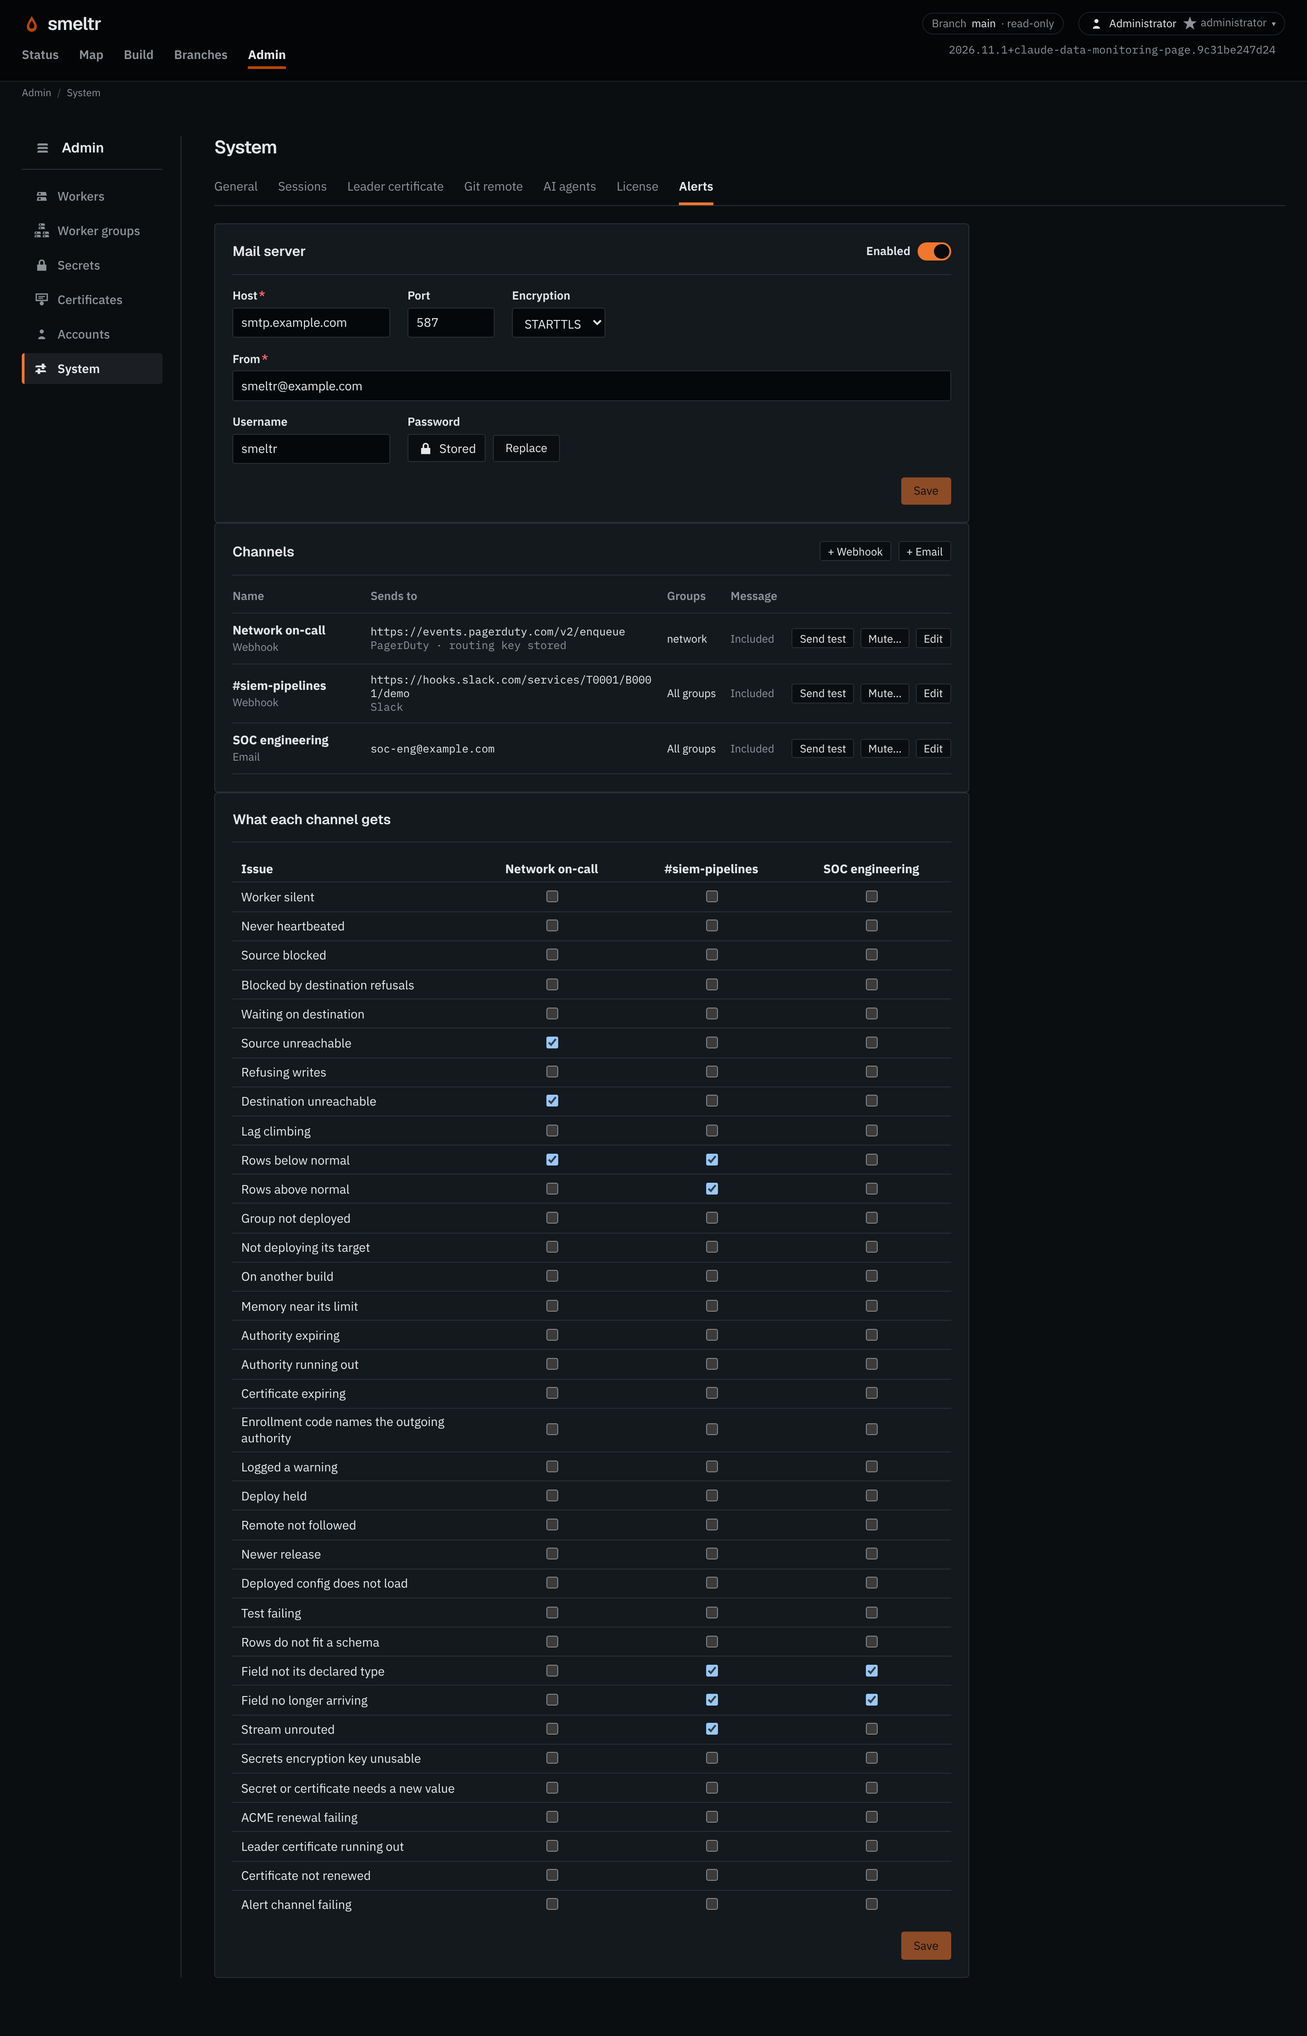
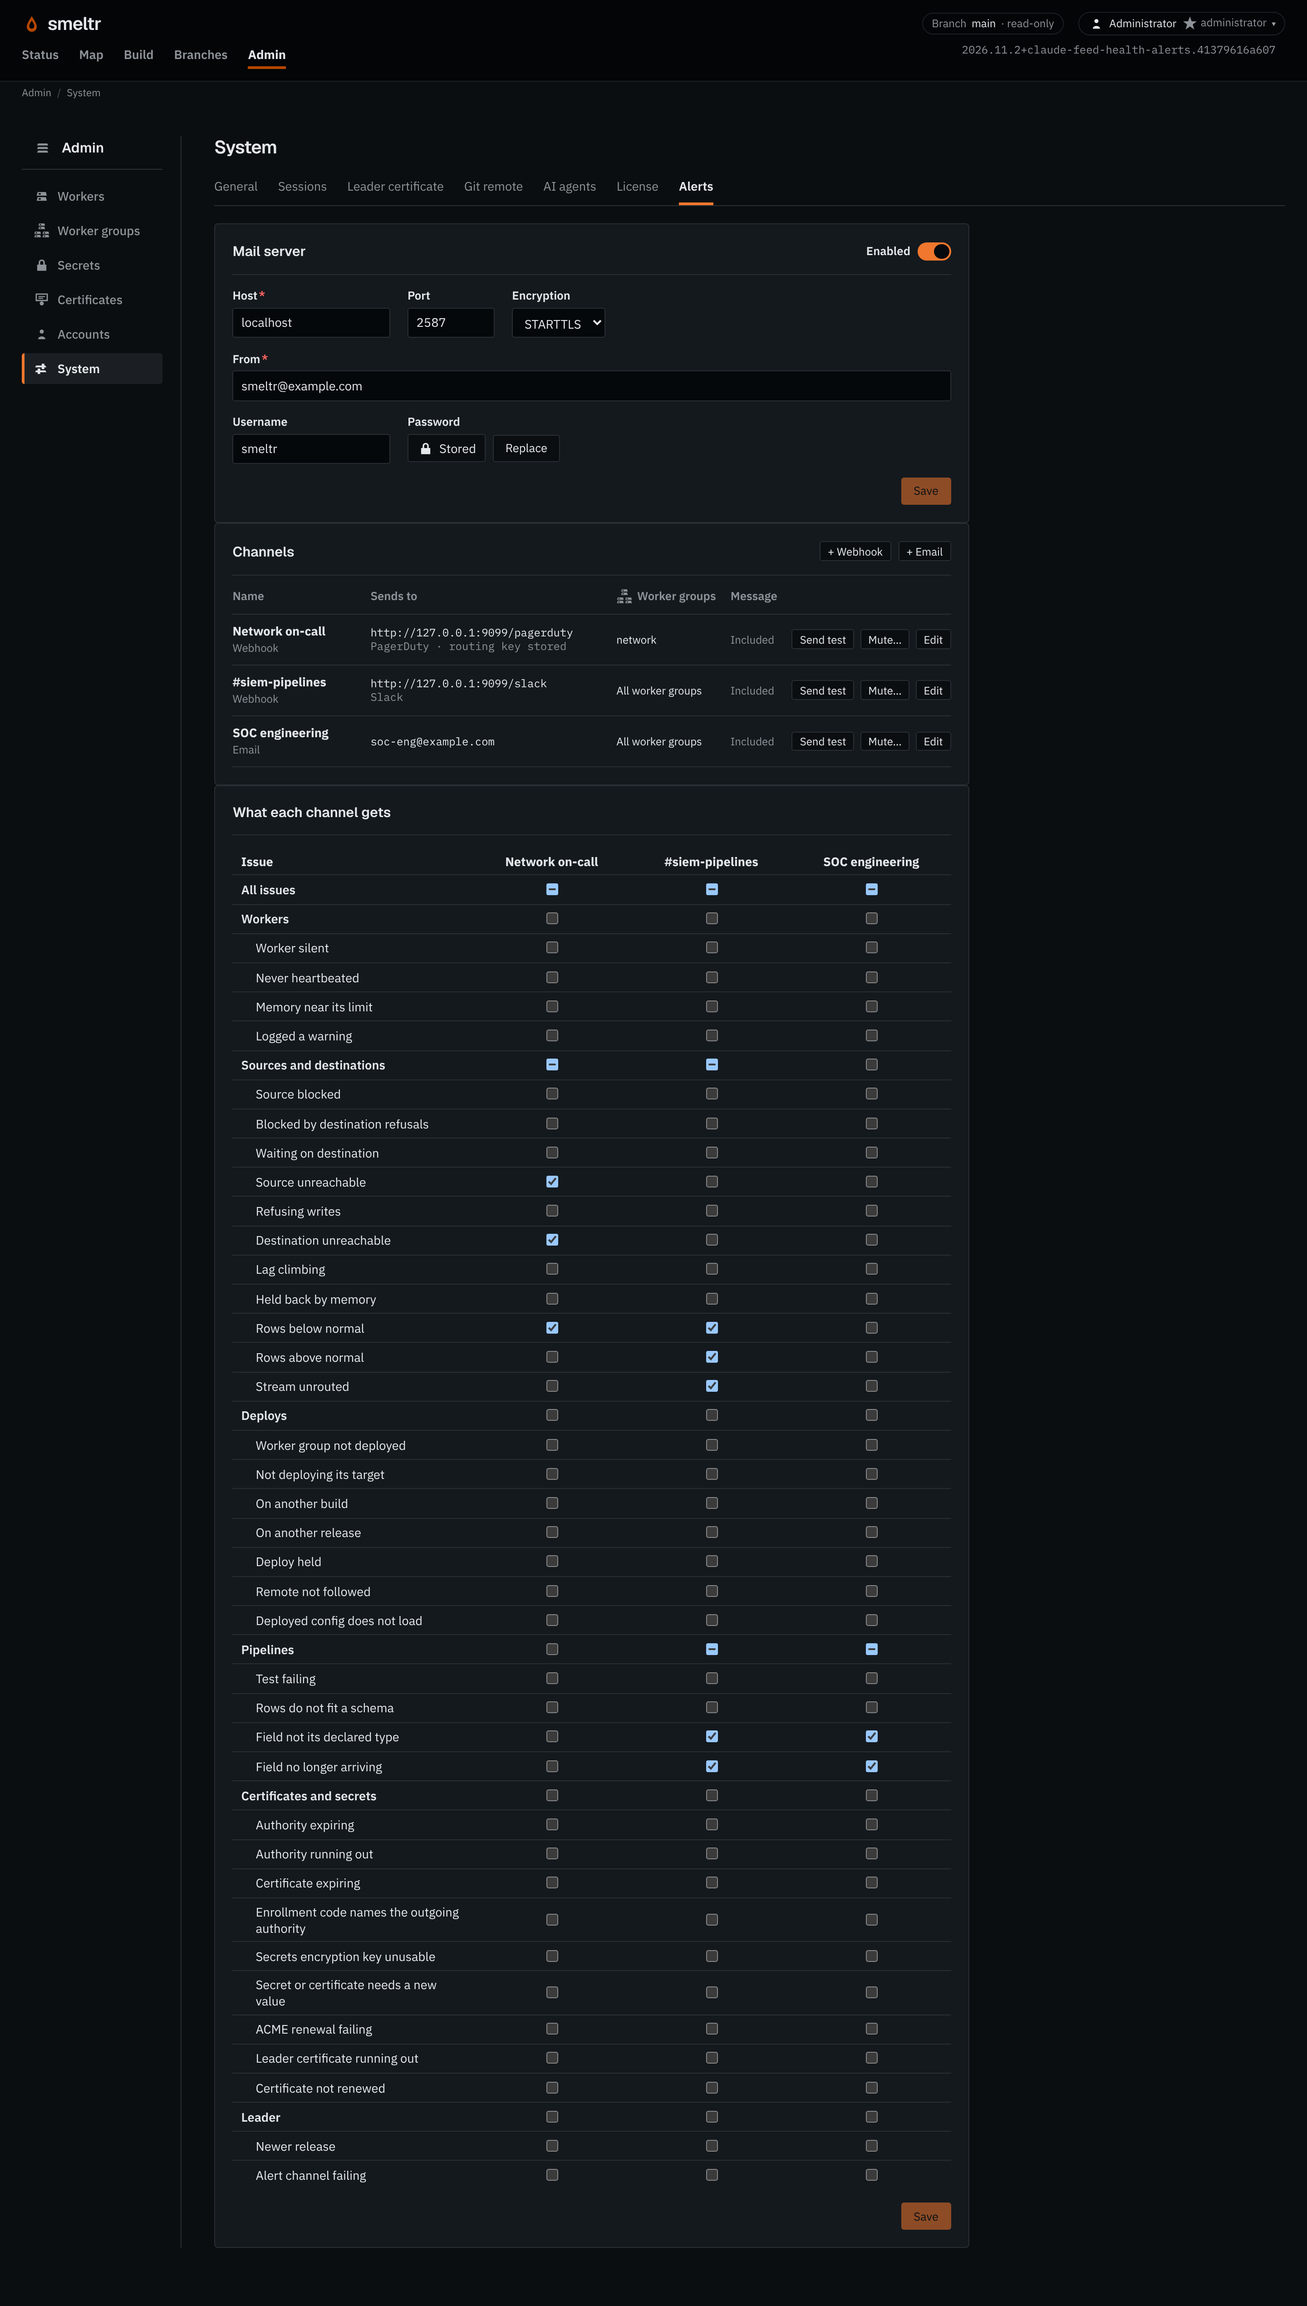
Website: Feed health tells where issues are sent, with shots from a real outage (#432)
* Demo history: ±3% noise a bucket, so its band shows

The staged week of throughput drew each bucket ±20%, which buried the expected
band on a day's chart. The live feed's jitter averages to a few percent over a
bucket; the history now matches it. Feed health's Issues shot gets a phone
version from the outage run.

Claude-Session: https://claude.ai/code/session_016X7h2RhLvp1HvfZozgwZZV

* Website: Feed health tells where its issues are sent

Claude-Session: https://claude.ai/code/session_016X7h2RhLvp1HvfZozgwZZV

* Website: Feed health's shots from a real outage, and the alerts as they look now

The volume and Issues shots come from the demo fleet with one FortiGate relay
down, and say "worker group" as the GUI now does. The alerts shots show the
Worker groups column and the whole channel dialog. The demo's history gives
each earlier day its own level, so the band is as wide as a real feed's.

Claude-Session: https://claude.ai/code/session_016X7h2RhLvp1HvfZozgwZZV

* Demo: alert channels that send to a receiver, and shots of them

The demo cannot reach PagerDuty, Slack or a mail server, so its channels would
each say their last send failed. receiver.py answers every webhook with 200 and
takes every mail over STARTTLS, with a certificate stage.py makes and the
leader is told to trust. stage.py saves the three teams' channels; shots.json
takes the Alerts page and the network on-call's dialog for the Feed health page.
[…]

diff --git a/website/src/routes/feed-health/+page.svelte b/website/src/routes/feed-health/+page.svelte
@@ -26,8 +26,19 @@
     <h2 id="volume-heading">Too quiet, or too loud.</h2>
     <p>
       Smeltr learns how many rows each source reads at each time of day, from its last seven days.
-      In the demo, FortiGate's logs reach Smeltr through two syslog relays. One goes down, the
-      source reads half of what it should, and within ten minutes Smeltr warns:
+      In the demo, FortiGate's logs reach Smeltr through two syslog relays. When one goes down, the
+      source falls to half of what it should read:
+    </p>
+    <ProductScreenshot
+      source="feed-health-volume"
+      height={1800}
+      crop={{ x: 2150, y: 470, width: 690, height: 950 }}
+      alt="The Map's panel for the fortigate-firewalls source: Rows below normal, input 171 rows a second, expected 378 to 465. Its 24-hour chart follows the expected band through the day, then falls to half."
+      caption="Over the last 24 hours the source reads within its band, until it falls to half."
+    />
+    <p>
+      Within ten minutes, Smeltr raises an issue. It shows on the Issues page and the Map, and goes
+      to every alert channel that takes it.
     </p>
     <ProductScreenshot
       source="feed-health-issues"
@@ -39,15 +50,8 @@
         width: 1440,
         crop: { x: 472, y: 922, width: 920, height: 299 },
       }}
-      alt="The Issues page: Rows below normal, for the fortigate-firewalls source, which read 418,174 rows in 30 minutes where 729,828 to 958,960 is normal at this time of day."
+      alt="The Issues page: Rows below normal, for the fortigate-firewalls source, which read 564,427 rows in 30 minutes where 686,163 to 840,639 is normal at this time of day."
       caption="The Issues page names the source, what it read and what is normal."
-    />
-    <ProductScreenshot
-      source="feed-health-volume"
-      height={1800}
-      crop={{ x: 2150, y: 470, width: 690, height: 950 }}
-      alt="The Map's panel for the fortigate-firewalls source: Rows below normal, input 243 rows a second, expected 405 to 533. Its 24-hour chart follows the expected band through the day, then falls to half."
-      caption="Over the last 24 hours the source reads within its band, until it falls to half."
     />
     <p>
       Smeltr starts warning once a source has three days of history. You set how wide the range is,
@@ -70,7 +74,7 @@
         source: 'feed-health-issues-phone',
         height: 2200,
         width: 1440,
-        crop: { x: 472, y: 601, width: 920, height: 299 },
+        crop: { x: 472, y: 572, width: 920, height: 318 },
       }}
       alt="The Issues page: Field not its declared type, for the fortigate-traffic pipeline, whose field proto has failed to read as its declared type in the last hour."
       caption="The Issues page names the pipeline, the field and the step."
@@ -80,17 +84,39 @@
   <section aria-labelledby="where-heading">
     <h2 id="where-heading">Sent where your team looks.</h2>
     <p>
-      Smeltr shows each issue on the Status and Issues pages and on the Map. Under Admin → System →
-      Alerts, send issues to a webhook in Generic JSON, Slack, Microsoft Teams or PagerDuty format,
-      or by email, and choose which kinds of issue each channel gets. Prometheus can also scrape
-      them from <code>/api/metrics</code>.
+      Every issue shows on the Status and Issues pages and on the Map. For the hours nobody is
+      looking, Admin → System → Alerts sends issues to the teams you choose.
     </p>
     <ProductScreenshot
       source="feed-health-alerts"
-      height={4486}
-      crop={{ x: 472, y: 1152, width: 1664, height: 594 }}
+      height={5080}
+      crop={{ x: 472, y: 1152, width: 1664, height: 578 }}
       alt="Admin, System, Alerts: three channels. Network on-call is a PagerDuty webhook for the network worker group, #siem-pipelines a Slack webhook for every worker group, and SOC engineering an email to soc-eng@example.com."
       caption="PagerDuty pages the network on-call, Slack tells the pipeline team, and email reaches SOC engineering."
+    />
+    <p>
+      Each channel takes only the issues ticked for it. Here the network on-call is paged when a
+      firewall feed drops. The pipeline team hears about it in Slack too.
+    </p>
+    <ProductScreenshot
+      source="feed-health-alerts"
+      height={5080}
+      crop={{ x: 472, y: 1731, width: 1664, height: 1357 }}
+      alt="What each channel gets: a row for each kind of issue, in sections, and a column for each channel. Network on-call takes Source unreachable, Destination unreachable and Rows below normal; #siem-pipelines takes Rows below normal, Rows above normal and Stream unrouted."
+      caption="A row for each kind of issue, a column for each channel."
+    />
+    <p>
+      A channel is a webhook, in PagerDuty, Slack, Microsoft Teams or generic JSON format, or an
+      email through your mail server. Prometheus can also scrape the same issues from <code
+        >/api/metrics</code
+      >.
+    </p>
+    <ProductScreenshot
+      source="feed-health-alert-channel"
+      height={1800}
+      crop={{ x: 992, y: 390, width: 896, height: 1020 }}
+      alt="Editing the Network on-call channel: format PagerDuty, URL http://127.0.0.1:9099/pagerduty, the demo's receiver, routing key stored, worker groups only network, message included."
+      caption="The network on-call channel pages through PagerDuty, for the network worker group only."
     />
     <p><a href="/docs/operations">Operate a fleet →</a></p>
   </section>

diff --git a/website/src/lib/marketing.css b/website/src/lib/marketing.css
@@ -37,6 +37,20 @@
 .marketing h2 + figure {
   margin-top: 1rem;
 }
+/* A screenshot narrower than the page starts where the text does, and so do its
+   link and caption: one left edge down the page. */
+.marketing figure .crop {
+  margin-inline: 0;
+}
+.marketing figure .shot span,
+.marketing figure figcaption {
+  margin-inline: 0;
+  text-align: left;
+}
+/* A caption belongs to the shot above it, not the one below. */
+.marketing figure + figure {
+  margin-top: 2.5rem;
+}
 .marketing .lede {
   max-width: 39rem;
   font-size: 1.15rem;

diff --git a/tools/screenshots/stage.py b/tools/screenshots/stage.py
@@ -243,7 +243,32 @@ def gui_port_taken():
         return s.connect_ex(("127.0.0.1", 8443)) == 0
 
 
-def start_leader():
+def start_receiver():
+    """`receiver.py`, where the alert channels send, with a certificate for localhost from a CA of its own. Returns
+    the trust store the leader reads: the host's roots and that CA."""
+    log("receiver")
+    certs = os.path.join(STATE, "receiver")
+    os.makedirs(certs)
+    def openssl(*args):
+        subprocess.run(["openssl", *args], cwd=certs, check=True, capture_output=True)
+    openssl("req", "-x509", "-newkey", "rsa:2048", "-nodes", "-days", "30", "-subj", "/CN=smeltr demo receiver CA",
+            "-keyout", "ca-key.pem", "-out", "ca.pem")
+    openssl("req", "-newkey", "rsa:2048", "-nodes", "-subj", "/CN=localhost", "-keyout", "key.pem", "-out", "cert.csr")
+    with open(os.path.join(certs, "san.ext"), "w") as f:
+        f.write("subjectAltName=DNS:localhost,IP:127.0.0.1\n")
+    openssl("x509", "-req", "-in", "cert.csr", "-CA", "ca.pem", "-CAkey", "ca-key.pem", "-CAcreateserial", "-days",
+            "30", "-extfile", "san.ext", "-out", "cert.pem")
+    trust = os.path.join(certs, "trust.pem")
+    with open(trust, "w") as out:
+        for pem in ("/etc/ssl/certs/ca-certificates.crt", os.path.join(certs, "ca.pem")):
+            if os.path.exists(pem):
+                out.write(open(pem).read())
+    spawn(PIDS, "receiver", [sys.executable, os.path.join(DIR, "receiver.py"), certs], certs,
+          os.path.join(STATE, "receiver.log"))
+    return trust
+
+
+def start_leader(trust):
     # Checked before the reset as well; this catches whatever took the port while it ran.
     if gui_port_taken():
         raise SystemExit("something took 127.0.0.1:8443 during the reset; stop it and run again")
@@ -253,7 +278,8 @@ def start_leader():
     logfile = os.path.join(STATE, "leader.log")
     # No worker in this process; the group it names is the one a fresh leader seeds, so no `default` is left over.
     spawn(PIDS, "leader", [BINARY], wd, logfile, fleet_env(HOSTNAME="smeltr-leader", SMELTR_LEADER_ENABLED="1",
-                                                           SMELTR_GUI_PORT="8443", SMELTR_WORKER_GROUP="network"))
+                                                           SMELTR_GUI_PORT="8443", SMELTR_WORKER_GROUP="network",
+                                                           SSL_CERT_FILE=trust))
     for _ in range(60):
         with open(logfile) as f:
             text = f.read()
@@ -337,6 +363,29 @@ def secret():
         "name": "es-ingest-api-key", "custody": "leader-stored",
         "description": "API key the Elasticsearch destinations send. Write access to logs-* only.",
         "value": "ApiKey c21lbHRyLWluZ2VzdDpkZW1vLWtleS12MQ=="}))
+
+
+def alerts():
+    """Three teams' alert channels, sending to `receiver.py`: the network on-call paged for its own worker group's
+    feeds, the pipeline team told in Slack about any, and SOC engineering mailed when a field drifts."""
+    log("alerts")
+    admin = as_("admin")
+    admin.ok(admin.call("PUT", "/api/settings/alerts/mail", {
+        "enabled": True, "host": "localhost", "port": 2587, "encryption": "startTls", "from": "smeltr@example.com",
+        "username": "smeltr", "password": "demo"}))
+    hook = "http://127.0.0.1:9099"
+    admin.ok(admin.call("PUT", "/api/settings/alerts/channels", {"channels": [
+        {"id": "network-oncall", "name": "Network on-call",
+         "kind": {"type": "webhook", "url": f"{hook}/pagerduty", "format": "pagerDuty"}, "secret": "demo-routing-key",
+         "groups": ["network"], "includeMessage": True,
+         "conditions": ["sourceRowsBelow", "sourceUnreachable", "destinationUnreachable"]},
+        {"id": "siem-pipelines", "name": "#siem-pipelines",
+         "kind": {"type": "webhook", "url": f"{hook}/slack", "format": "slack"}, "includeMessage": True,
+         "conditions": ["sourceRowsBelow", "sourceRowsAbove", "declaredFieldFailing", "declaredFieldGone",
+                        "streamUnrouted"]},
+        {"id": "soc-engineering", "name": "SOC engineering", "kind": {"type": "email", "to": ["soc-eng@example.com"]},
+         "includeMessage": True, "conditions": ["declaredFieldFailing", "declaredFieldGone"]},
+    ]}))
 
 
 def firewalls():
@@ -509,13 +558,14 @@ def main():
         raise SystemExit("something other than this tool's leader listens on 127.0.0.1:8443; stop it and run again. "
                          "Nothing was reset.")
     reset()
-    one_time = start_leader()
+    one_time = start_leader(start_receiver())
     accounts(one_time)
     groups()
     start_workers()
     # Paced so History reads as work spread over a quarter of an hour, and each feed has come up before the next.
     pause(1)
     secret()
+    alerts()
     firewalls()
     pause(4)
     apps()

diff --git a/tools/screenshots/receiver.py b/tools/screenshots/receiver.py
@@ -1,0 +1,83 @@
+#!/usr/bin/env python3
+"""Where the demo's alert channels send: a webhook that answers every POST with 200, and a mail server that takes
+every message, over STARTTLS with the certificate `stage.py` makes for it. What either is sent is dropped.
+
+    python3 receiver.py <dir>      # <dir> holds cert.pem and key.pem
+
+The demo cannot reach PagerDuty, Slack or a real mail server, and a channel whose sends fail says so on the Alerts
+page the shots show.
+"""
+
+import asyncio
+import os
+import ssl
+import sys
+
+WEBHOOK_PORT = 9099
+SMTP_PORT = 2587
+
+
+async def webhook(reader, writer):
+    try:
+        while True:
+            head = await reader.readuntil(b"\r\n\r\n")
+            length = next((int(line.split(b":", 1)[1]) for line in head.split(b"\r\n")
+                           if line.lower().startswith(b"content-length:")), 0)
+            await reader.readexactly(length)
+            writer.write(b"HTTP/1.1 200 OK\r\nContent-Length: 0\r\n\r\n")
+            await writer.drain()
+    except (asyncio.IncompleteReadError, ConnectionError):
+        pass
+    finally:
+        writer.close()
+
+
+def smtp(tls):
+    async def serve(reader, writer):
+        async def say(line):
+            writer.write(line + b"\r\n")
+            await writer.drain()
+
+        try:
+            await say(b"220 localhost demo receiver")
+            while line := await reader.readline():
+                verb = line[:4].upper()
+                if verb == b"EHLO":
+                    await say(b"250-localhost")
+                    await say(b"250-AUTH PLAIN")
+                    await say(b"250 STARTTLS")
+                elif verb == b"STAR":
+                    await say(b"220 ready")
+                    await writer.start_tls(tls)
+                elif verb == b"AUTH":
+                    await say(b"235 accepted")
+                elif verb == b"DATA":
+                    await say(b"354 go on")
+                    while (await reader.readline()) not in (b".\r\n", b""):
+                        pass
+                    await say(b"250 taken")
+                elif verb == b"QUIT":
+                    await say(b"221 bye")
+                    break
+                else:
+                    await say(b"250 ok")
+        except (ConnectionError, ssl.SSLError):
+            pass
+        finally:
+            writer.close()
+
+    return serve
+
+
+async def main(certs):
+    tls = ssl.create_default_context(ssl.Purpose.CLIENT_AUTH)
+    tls.load_cert_chain(os.path.join(certs, "cert.pem"), os.path.join(certs, "key.pem"))
+    servers = [await asyncio.start_server(webhook, "127.0.0.1", WEBHOOK_PORT),
+               await asyncio.start_server(smtp(tls), "127.0.0.1", SMTP_PORT)]
+    await asyncio.gather(*(s.serve_forever() for s in servers))
+
+
+if __name__ == "__main__":
+    if len(sys.argv) != 2:
+        raise SystemExit(__doc__)
+    asyncio.run(main(sys.argv[1]))

diff --git a/examples/demo-traffic.rs b/examples/demo-traffic.rs
@@ -201,10 +201,23 @@ fn history(registry: &std::path::Path) {
             while at > now - HISTORY_MS {
                 let width = Tier::for_window(Duration::from_millis((now - at) as u64)).bucket_ms();
                 at -= width;
-                // A day's curve, at its mean at this time of day, with each bucket's own noise.
+                // A day's curve, at its mean at this time of day, with each bucket's own noise: ±3%, as the live
+                // jitter averages out over a bucket, so the history reads as the same feed. Each earlier day runs
+                // up to 12% above or below it, blended into the next, as a real feed's days differ: the spread
+                // at an hour across days is what sets the band. The last day is the live one's level.
                 let curve = 1.0 + 0.3 * (TAU * (at - now) as f64 / DAY).sin();
-                let noise = 0.8 + 0.4 * (mix(salt ^ at as u64) % 1_000) as f64 / 1_000.0;
-                let delta = (rate * width as f64 * curve * noise).round();
+                let noise = 0.97 + 0.06 * (mix(salt ^ at as u64) % 1_000) as f64 / 1_000.0;
+                let days = (now - at) as f64 / DAY;
+                let level = |d: u64| {
+                    if d == 0 {
+                        1.0
+                    } else {
+                        0.88 + 0.24 * (mix(salt ^ d.wrapping_mul(0x9e37)) % 1_000) as f64 / 1_000.0
+                    }
+                };
+                let blend = 0.5 - 0.5 * (std::f64::consts::PI * days.fract()).cos();
+                let day = level(days as u64) * (1.0 - blend) + level(days as u64 + 1) * blend;
+                let delta = (rate * width as f64 * curve * day * noise).round();
                 if delta > 0.0 {
                     write(|| store.record_delta(metric, &subject, at, delta));
                     written += 1;
